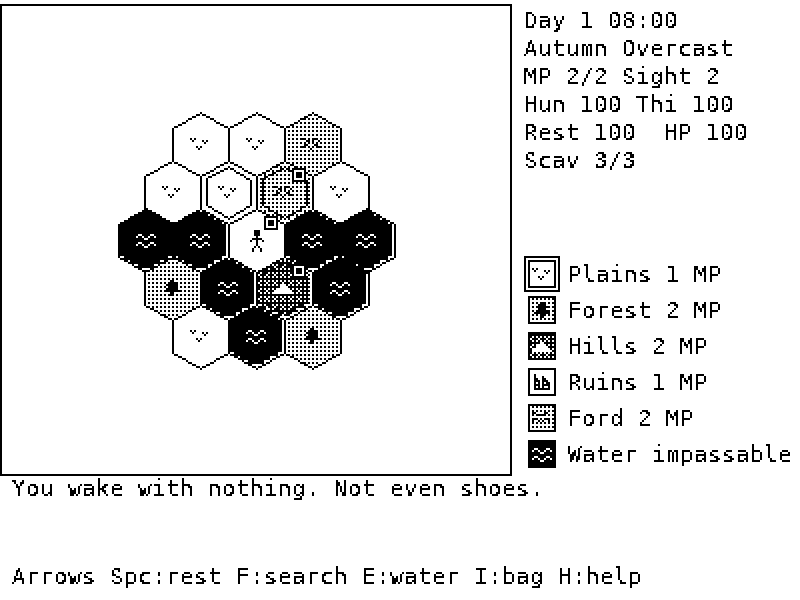
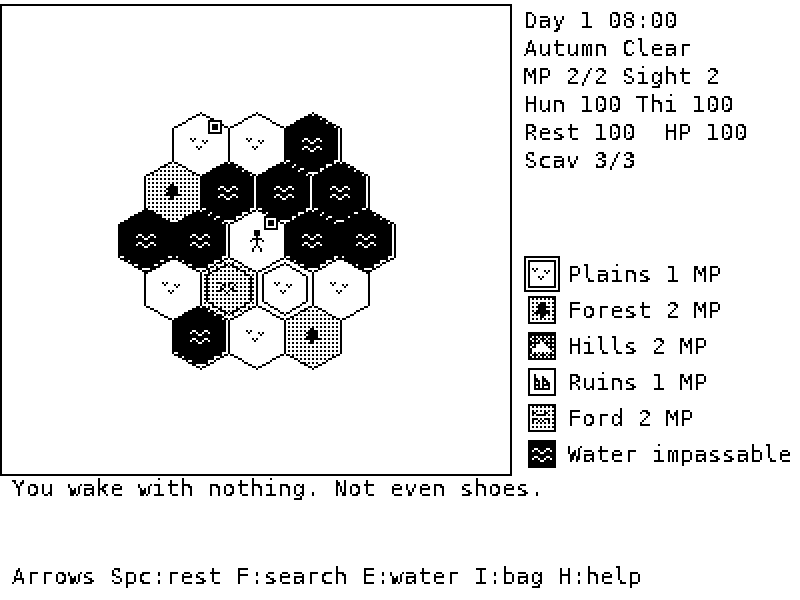
The Churn: fix the glyph_test weather flake; note the portrait retry
glyph_test failed for ~15% of world seeds: a world that starts in rain,
snow or fog tiles the map with 32x29 weather sprites, which the test took
for stray glyphs. It now pins clear weather; seeds 1-200 pass. The
portrait retry hit the Hugging Face ZeroGPU quota again (HANDOFF).

Claude-Session: https://claude.ai/code/session_01SuvJnz175qPkCT91FUK7Pe

diff --git a/examples/churn/HANDOFF.md b/examples/churn/HANDOFF.md
@@ -14,7 +14,7 @@ A complete, playable Lua game for the user's ESP32-S3 SolarTerm (Waveshare RLCD 
 - **Verified on the device:** only the early builds ("it works!"). Everything since is tested on a PC against a fake `solaros` module. `DEVICE_TEST.md` is the 10-minute checklist for the board, and **H then V** in game shows the device info page.
 - **Balance** (`tools/balance_sim.lua`, a bot playing 30-day runs with the real code): deaths Easy ~22%, Normal ~39%, Churn-Hardened ~60% since the empty start and clothes wearing out (they were ~12 / ~22 / ~50; see "Start with nothing").
 - **Perf** (`tools/perf_check.lua`, in the suite): bundle ~580 KB; Lua heap ~1070 KB loaded, ~1.22 MB peak (limit 1300 KB in run_tests.sh; Lua is in PSRAM); busiest frames: map with everything explored ~490 gfx calls (~190 by day), the bag ~280 for a full redraw and ~100 for a cursor move. **On the device every gfx call is an event drained 24 per app tick** (25 ms default, `src/apps/solar_os_lua.c` `SOLUA_DRAIN_EVENTS_PER_TICK`), about 960 calls/s, so draw calls are the speed budget, not Lua time.
-- **Open items:** the portrait regeneration waits for the Hugging Face ZeroGPU quota (a scheduled check-in retries it); the user will supply `art/karl.jpg` themself (Karl is a real person: **never generate him**).
+- **Open items:** seven portraits wait for the Hugging Face ZeroGPU quota (no check-in is scheduled any more; see the 2026-10-03 note); the user will supply `art/karl.jpg` themself (Karl is a real person: **never generate him**).
 
 ## Code map
 
@@ -105,7 +105,9 @@ The sim is not byte-reproducible between processes (Lua 5.4 varies `pairs` order
 > - **Guns** (`src/62_guns.lua`): `ITEM_DB[..].shoot = {dmg, ammo, jam, hit, quiet, curse}`; `ranged_options` puts "Shoot" first when a held shooter has ammo; `shoot` (CHURN.guns: wear per shot, jam grows with wear, `noise_until` -> `noise_mult` in `maybe_encounter`, animals may bolt). Assembly recipes have `chance` (Game:craft: on a failure one non-frame part breaks). `clean = true` recipe resets `self.gun_wear`. One `marsh_revolver` per world (`TECH.world_items`). Elder Sign: option vs horrors/dark, ends it.
 > - **Saved:** research, books_read, tapedeck, gun_wear, noise_until, placed, crates.
 > - **Tests:** `intro_test`, `research_test`, `guns_test`; many older tests updated for the smaller known set, the matches in the pile and the property inputs. Balance (200 runs, seed 1, normal): about as before (starved 14.5% vs 21.5%, alive at cap 21% vs 17.5%; the bot doesn't study). Perf: bundle 578 KB, heap peak ~1220 KB of the 1300 KB budget (Lua is in the 8 MB PSRAM).
-> - **Known flake (pre-existing):** `glyph_test` fails for ~15% of world seeds (a 32x29 sprite on the map isn't recognised as a glyph or a hex mask), on the old code too. Not fixed here.
+> - **Renamed (same day, the user's ask):** `examples/wasteland` -> `examples/churn`, `wasteland.lua` -> `churn.lua`, `wasteland_pygame.py` -> `churn_pygame.py`, `WASTELAND_SEED` -> `CHURN_SEED`. Saves/records live in `<mount>/churn/`; `SAVE.read` falls back to `<mount>/wasteland/` (`SAVE.old_dir`), and `delete_save` clears both.
+> - **glyph_test flake fixed:** ~15% of world seeds (old code too) failed because the world started in rain/snow/fog and `draw_weather` tiles the map with 32x29 sprites. The test now pins clear weather (`clear_day`); seeds 1-200 pass.
+> - **Portraits still blocked:** a retry on 2026-10-03 hit the ZeroGPU quota again (0s left). Left: wanderer, mouthless, hollow, bell, stars, stillness, door (see `art/PROMPTS.md`). No routine re-armed.
 
 The dated notes below were written as each feature landed; part names in older notes predate the 2026-10-01 split of `05_data` (now `05_data_world`, `06_data_items`, `07_data_encounters`) and of the puzzles into `41_puzzles`.
 
